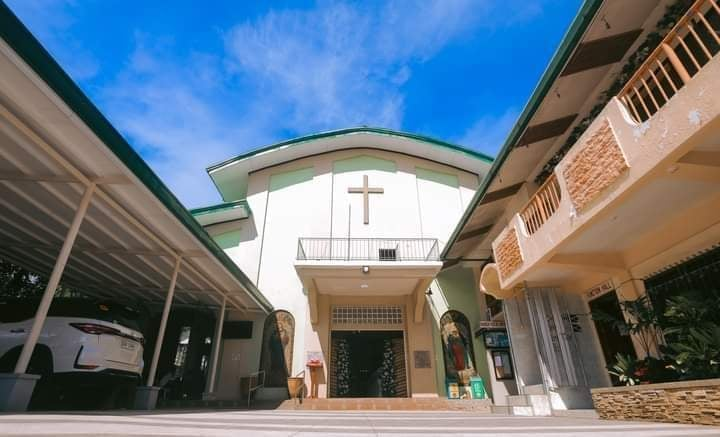
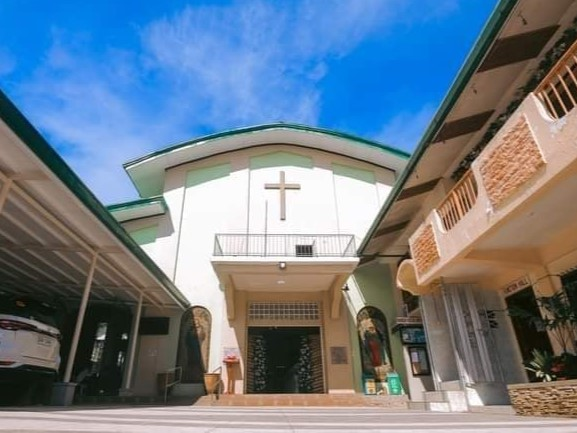
fix stuff

diff --git a/app/(root)/schedule/page.tsx b/app/(root)/schedule/page.tsx
@@ -3,18 +3,21 @@ import { homeMadeApple } from '@/app/fonts'
 
 const page = () => {
   return (
-    <div className='flex flex-col items-center'>
+    <div className='flex flex-col items-center min-w-full'>
       <h1 className={`${homeMadeApple.className} lg:text-6xl text-3xl lg:mt-14 lg:mb-16 mt-5 mb-3 pt-10`}><span className='hidden lg:text-6xl'>Saturday,</span> January 18, 2025</h1>
       <span className={`${homeMadeApple.className} lg:hidden text-3xl mb-5`}>Saturday,</span>
+
       <div className="flex lg:flex-row flex-col p-4 w-full">
-        <Image 
-          src='/church.jpg' // Path to your SVG file
-          alt='wedding cake'
-          width={500} // Set the desired width
-          height={400} // Set the desired height
-          className='rounded-3xl w-1/3 ml-12'
-        />
-        <div className="flex flex-col items-center justify-center w-full">
+        <div className="lg:w-1/2 flex">
+          <Image 
+            src='/church.jpg'
+            alt='wedding cake'
+            width={577}
+            height={433}
+            className='rounded-3xl w-fit p-5 lg:ml-40'
+          />
+        </div>
+        <div className="flex flex-col items-center justify-center lg:w-1/2">
           <Image 
             src='/rings.svg' // Path to your SVG file
             alt='wedding cake'
@@ -22,14 +25,13 @@ const page = () => {
             height={100} // Set the desired height
           />
           <h2 className='text-5xl font-crimson'>Ceremony</h2>
-          <h3 className='text-2xl font-crimson'>1:00 pm - 4:00 pm</h3>
+          <h3 className='text-2xl font-crimson'>1:00 pm</h3>
 
           <div className="default-text flex flex-col items-center lg:w-1/3 w-5/6 text-center">
             <h3>Holy Cross Parish</h3>
             <h3>Talairon, Oroquieta City</h3>
 
-            <p className='pt-3 text-base lg:text-lg'>Please arrive at the ceremony by 12:30 pm to ensure you are
-            comfortably seated before the ceremony begins promptly at 1 pm.</p>
+            <p className='pt-3 text-base lg:text-lg'>Assembly time is 12:30pm to ensure you are comfortably seated before the ceremony begins promptly at 1 pm.</p>
             <p className='pt-2 pb-4 text-base lg:text-lg'>Click the link below to get the location of the ceremony.</p>
           </div>
           <a href='https://maps.app.goo.gl/LfH5rezAFJjQfdgbA' target='_blank' rel='noopener noreferrer'>
@@ -38,27 +40,40 @@ const page = () => {
         </div>
       </div>
 
+      <div className="flex lg:flex-row flex-col p-4 w-full">
+        <div className="lg:w-1/2 flex">
+          <Image 
+            src='/costa.jpg'
+            alt='wedding cake'
+            width={577}
+            height={433}
+            className='rounded-3xl w-fit p-5 lg:ml-40'
+          />
+        </div>
+        <div className="flex flex-col items-center justify-center lg:w-1/2">
+          <Image 
+            src='/cake.svg' // Path to your SVG file
+            alt='wedding cake'
+            width={90} // Set the desired width
+            height={90} // Set the desired height
+          />
+          <h2 className='text-5xl font-crimson'>Reception</h2>
+          <h3 className='text-2xl font-crimson'>4:30 pm onwards</h3>
 
-      <Image 
-        src='/cake.svg' // Path to your SVG file
-        alt='wedding cake'
-        width={90} // Set the desired width
-        height={90} // Set the desired height
-      />
-      <h2 className='text-5xl font-crimson'>Reception</h2>
-      <h3 className='text-2xl font-crimson'>4:30 pm onwards</h3>
+          <div className="default-text flex flex-col items-center lg:w-1/3 w-5/6  text-center">
+            <h3>Costa Del Sol</h3>
+            <h3>Independence St, Oroquieta City</h3>
 
-      <div className="default-text flex flex-col items-center lg:w-1/3 w-5/6  text-center">
-        <h3>Costa Del Sol</h3>
-        <h3>Independence St, Oroquieta City</h3>
-
-        <p className='pt-3 text-base lg:text-lg'>We can&apos;t wait to celebrate with you!</p>
-        <p className='pt-3 text-base lg:text-lg'>Our dinner reception is only a ten-minute drive from the ceremony.</p>
-        <p className='pt-3 text-base lg:text-lg pb-4'>Click the link below to get the location of the reception.</p>
+            <p className='pt-3 text-base lg:text-lg'>We can&apos;t wait to celebrate with you!</p>
+            <p className='pt-3 text-base lg:text-lg'>Our dinner reception is only a ten-minute drive from the ceremony.</p>
+            <p className='pt-3 text-base lg:text-lg pb-4'>Click the link below to get the location of the reception.</p>
+          </div>
+          <a href='https://maps.app.goo.gl/FkWHVZVZWmo2CWecA' target='_blank' rel='noopener noreferrer'>
+            <button className='bg-brown text-white text-xl w-fit h-12 py-2 px-4 rounded-xl mb-12 hover:bg-lightbrown'>Reception Location</button>
+          </a>
+        </div>
       </div>
-      <a href='https://maps.app.goo.gl/FkWHVZVZWmo2CWecA' target='_blank' rel='noopener noreferrer'>
-        <button className='bg-brown text-white text-xl w-fit h-12 py-2 px-4 rounded-xl mb-12 hover:bg-lightbrown'>Reception Location</button>
-      </a>
+
     </div>
   )
 }

diff --git a/app/(root)/entourage/page.tsx b/app/(root)/entourage/page.tsx
@@ -4,6 +4,8 @@ import React from 'react'
 const sponsors = {
   'Mr. Reynaldo B. Ramirez': 'Mrs. Angeline L. Ramirez',
   'Mr. Johnny M. Indus': 'Mrs. Marilou M. Indus',
+  'Dr. Jonathan S. dela Peña':'Dr. Ingrid G. Racoma',
+  'Engr. Richmond A. Sobong':'Mrs. Barba Fer S. Sobong',
   'Mr. Erwin Cabural': 'Mrs. Sharon Cabural',
   'Engr. Dennis C. Apatan': 'Mrs. Bernadette B. Apatan',
   'Mr. Mariano A. Villanueva II': 'Mrs. Nacille Consuelo V. Villanueva',
@@ -17,7 +19,7 @@ const sponsors = {
   'Dr. Jose O. Robillos': 'Mrs. Charry E. Robillos',
   'Mr. Francis Alberto D. Fabe': 'Mrs. Seny Fe B. Fabe',
   'Mr. Arturo A. Sanchez': 'Ms. Daisylain B. Badilla',
-  'Mr. Joseph Anthony Manongas': 'Mrs. Marycris Q. Manongas',
+  'Mr. Anthony Joe Manongas': 'Mrs. Marycris Q. Manongas',
   'Mr. Virgilio Q. Yu': 'Mrs. Sarah A. Yu',
   'Mr. Luis A. Jainga': 'Mrs. Cleopatra B. Jainga',
   'Mr. Nestor M. Repolledo': 'Ms. Maria Lucy R. Cabalit'
@@ -78,6 +80,21 @@ const page = () => {
         <div className=" w-1/3">
           <h1 className={`${cormorant.className} lg:text-3xl text-lg pt-4 font-bold`}>Best Man</h1>
           <h1 className='lg:text-4xl text-lg font-crimson font-light'>Keith Christian Maerly Bañaga</h1>
+        </div>
+      </div>
+
+      <div className="flex flex-row text-center lg:gap-12 gap-3 pt-5 w-full  items-start justify-center">
+        <div className=" w-1/3">
+          <h1 className={`${cormorant.className} lg:text-3xl text-lg pt-4 font-bold`}>Bridesmaids</h1>
+          <h1 className='lg:text-4xl text-lg font-crimson font-light'>Aryen Gem T. Neri</h1>
+          <h1 className='lg:text-4xl text-lg font-crimson font-light'>Marie Novie G. Triambulo</h1>
+          <h1 className='lg:text-4xl text-lg font-crimson font-light'>Apple Mae Q. Solis</h1>
+        </div>
+        <div className=" w-1/3">
+          <h1 className={`${cormorant.className} lg:text-3xl text-lg pt-4 font-bold`}>Groomsmen</h1>
+          <h1 className='lg:text-4xl text-lg font-crimson font-light'>John Renzo C. Tonggao</h1>
+          <h1 className='lg:text-4xl text-lg font-crimson font-light'>Daniel James Z. Dolor</h1>
+          <h1 className='lg:text-4xl text-lg font-crimson font-light'>Jude Arom F. Dominguez</h1>
         </div>
       </div>
 

diff --git a/app/(root)/rsvp/page.tsx b/app/(root)/rsvp/page.tsx
@@ -181,20 +181,23 @@ const RSVP = () => {
         Hi there, good day!
       </div>
       <div className="font-crimson lg:text-2xl text-sm text-center pb-2 px-4 lg:w-1/2">
-        We are inviting you to our wedding this upcoming January 18, 2025. 
+        We are inviting you to our wedding this coming <strong>January 18, 2025</strong>.
       </div>
       <div className="font-crimson lg:text-2xl text-sm text-center pb-2 px-4 lg:w-1/2">
-        Kindly RSVP on or before December 18, 2024.
+        Kindly RSVP on or before <strong>December 18, 2024</strong>.
       </div>
       <div className="font-crimson lg:text-2xl text-sm text-center b-2 px-4 lg:w-1/2">
-        This invitation is for one person only, if you have an add-on, kindly ask the couple ahead of time as seats are limited.
+        This invitation is for one person only. If you have an add-on, kindly ask the couple ahead of time as seats are only limited.
       </div>
-      <div className="font-crimson lg:text-2xl text-sm text-center pb-2 px-4 lg:w-1/2">
-        Kindly scroll through the website  for details. Thank you!
+      <div className="font-crimson lg:text-2xl text-sm text-center pb-2 px-4 lg:w-1/2 font-bold">
+        - Aubrey & Jose
       </div>
 
       <div className="font-crimson lg:text-2xl text-sm text-center pt-8 pb-2 px-4 lg:w-1/2">
       To create an RSVP request, please input your details below.
+      </div>
+      <div className="font-crimson lg:text-2xl text-sm text-center pb-2 px-4 lg:w-1/2">
+        Kindly see the website for details. Thank you!
       </div>
 
       <form className='flex flex-col justify-center items-center w-full' onSubmit={handleSubmit}>
